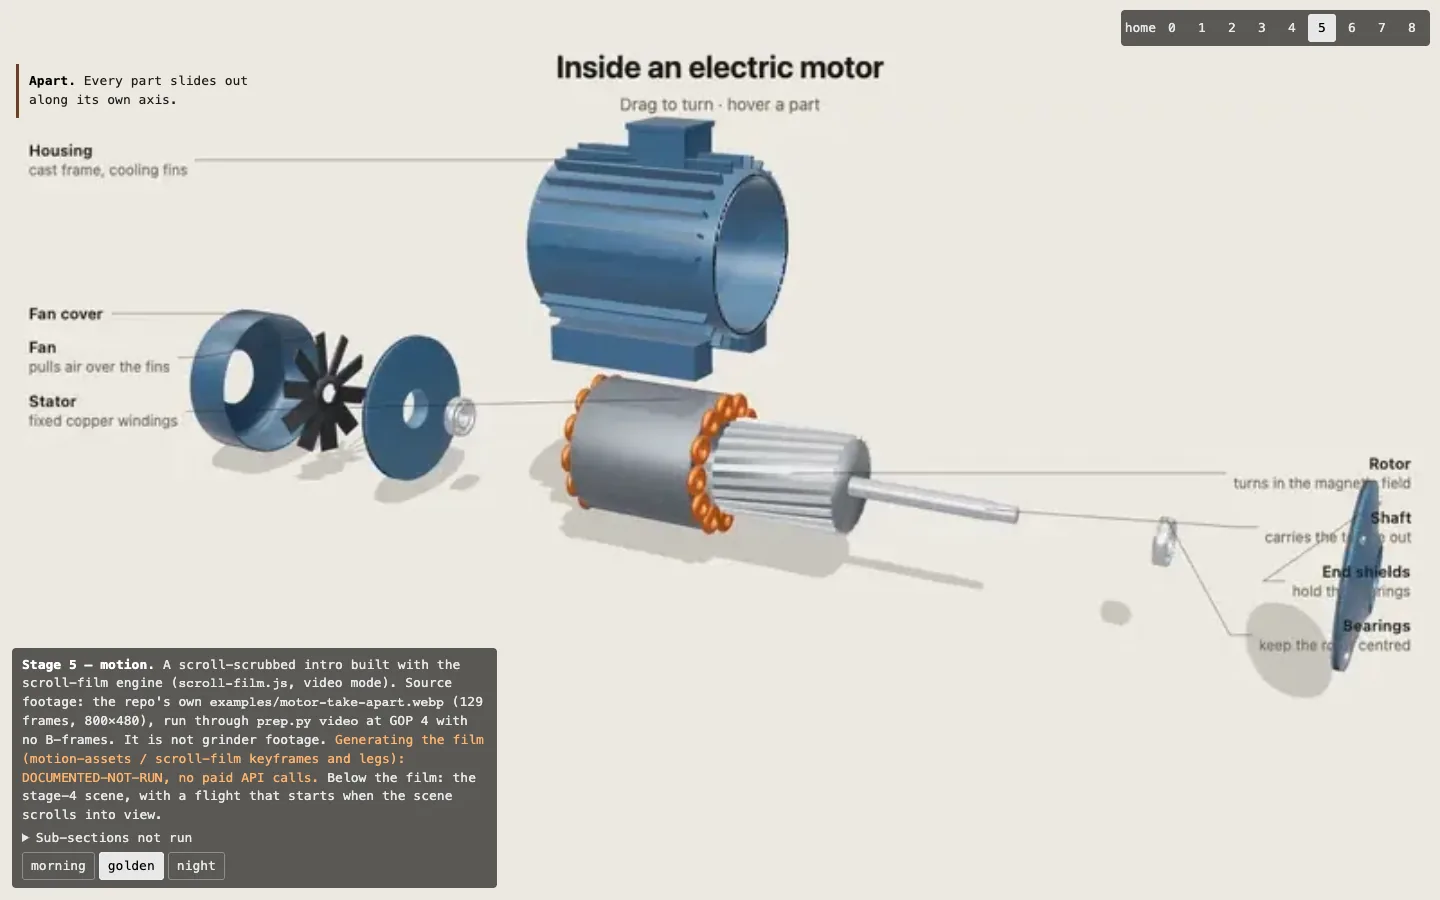
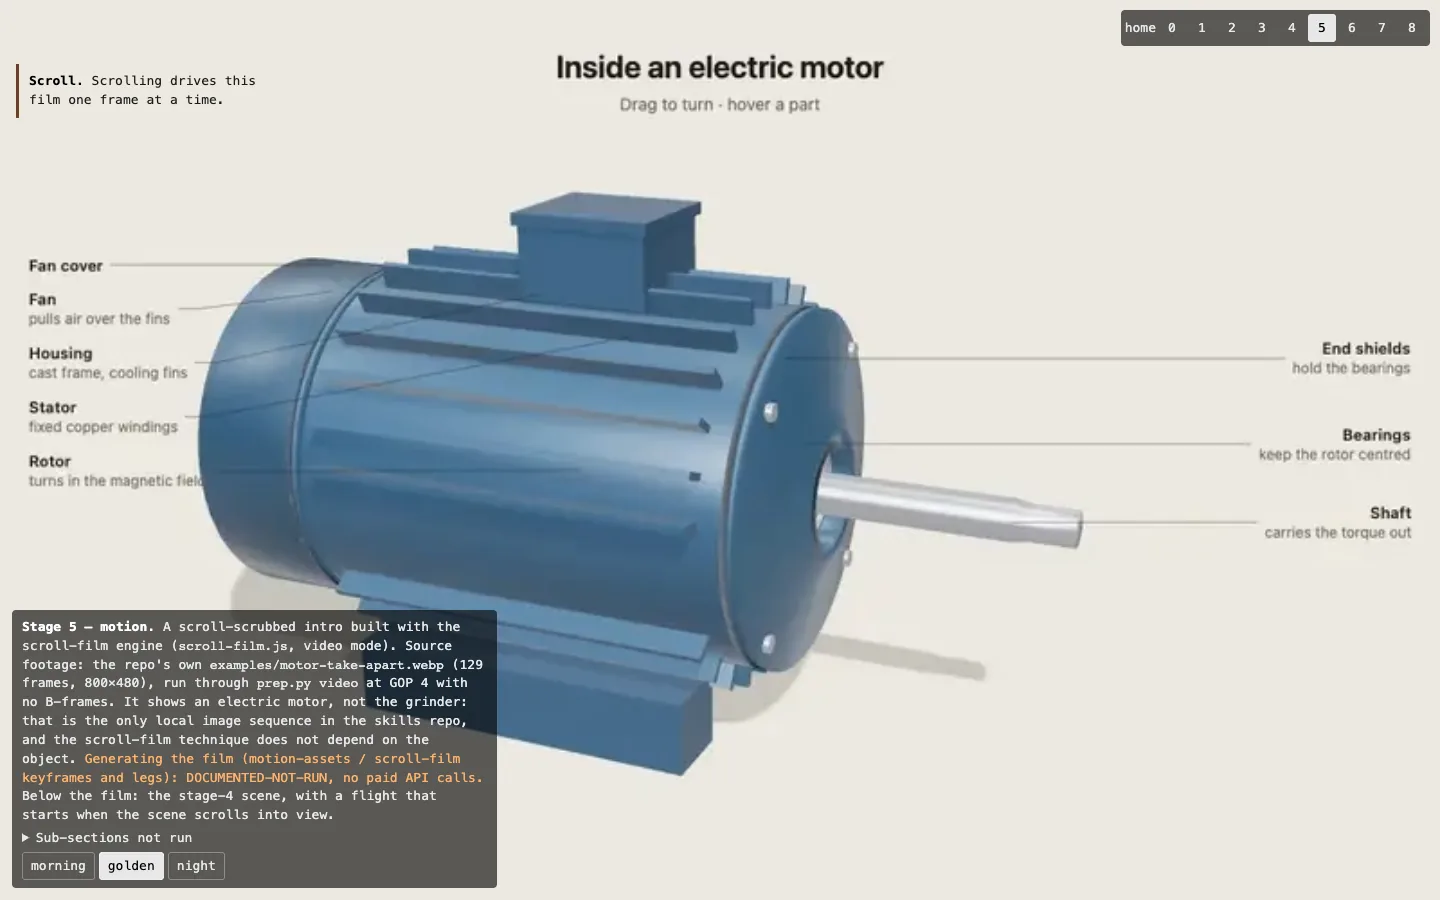
3.5.6: stage 5 caption and direction.md state plainly that the only local sequence is an electric motor and the technique is object-agnostic; one paragraph on how grinder footage would be generated (motion-assets, text only, no API call); weights re-measured

diff --git a/stage-5/index.html b/stage-5/index.html
@@ -47,7 +47,7 @@
   </section>
   <section class="live" aria-label="Live three.js grinder"></section>
 
-  <div class="caption"><b>Stage 5 — motion.</b> A scroll-scrubbed intro built with the scroll-film engine (<code>scroll-film.js</code>, video mode). Source footage: the repo's own <code>examples/motor-take-apart.webp</code> (129 frames, 800×480), run through <code>prep.py video</code> at GOP 4 with no B-frames. It is not grinder footage. <span class="dnr">Generating the film (motion-assets / scroll-film keyframes and legs): DOCUMENTED-NOT-RUN, no paid API calls.</span> Below the film: the stage-4 scene, with a flight that starts when the scene scrolls into view.
+  <div class="caption"><b>Stage 5 — motion.</b> A scroll-scrubbed intro built with the scroll-film engine (<code>scroll-film.js</code>, video mode). Source footage: the repo's own <code>examples/motor-take-apart.webp</code> (129 frames, 800×480), run through <code>prep.py video</code> at GOP 4 with no B-frames. It shows an electric motor, not the grinder: that is the only local image sequence in the skills repo, and the scroll-film technique does not depend on the object. <span class="dnr">Generating the film (motion-assets / scroll-film keyframes and legs): DOCUMENTED-NOT-RUN, no paid API calls.</span> Below the film: the stage-4 scene, with a flight that starts when the scene scrolls into view.
     <details><summary>Sub-sections not run</summary>
       <span class="dnr">cursor-rig: DOCUMENTED-NOT-RUN.</span> It needs a painted character plus 2–8 image-to-video head-turn clips. There is no character in this brief, and the clips would be paid generation.<br>
       <span class="dnr">alpha-cutout: DOCUMENTED-NOT-RUN.</span> It needs a clip generated on a chroma plate. The motor footage has an opaque background (alpha 255 on every pixel), so there was nothing to key.

diff --git a/notes/direction.md b/notes/direction.md
@@ -206,6 +206,8 @@ DOCUMENTED-NOT-RUN.
 **Pacing check.** `record.py ... --fps 8 --seconds 20 --scroll "0:0 18:100%"` → 160 frames,
 "no page errors". Re-encoded to `captures/stage-5-scroll.mp4` (480 px, 56,443 B).
 
+**Grinder footage, if generated (text only, no API call; motion-assets SKILL.md "Before spending anything" / "One look" / "Generation order"):** asset list = 1 hero still of the stage-8 hero frame + 4 keyframe stills (assembled, crank off, hopper and ring off, burrs apart) + 3 start/end-anchored clips chained between them (each anchored on the extracted last frame of the previous one, one video model for the whole chain, "locked-off camera; the tray, background and lighting stay perfectly still"); one look = a style preamble built from this file's palette and golden-hour light, prepended byte-for-byte to every prompt, with the approved hero still as the style reference for the rest; cost = unknown until calibrated: one still and one short clip first, read the charge, estimate the rest from that (the skill says never to quote a price from memory), then get a yes before generating. Every prompt, job id and cost would go in `prompts/asset-prompts.md`.
+
 **DOCUMENTED-NOT-RUN:** motion-assets (no paid generation), scroll-film generation (keyframes,
 legs, `prep.py seams`: there is only one leg, so seams has nothing to score), cursor-rig (no
 painted character, needs 2–8 paid image-to-video clips), alpha-cutout (the footage is opaque,
